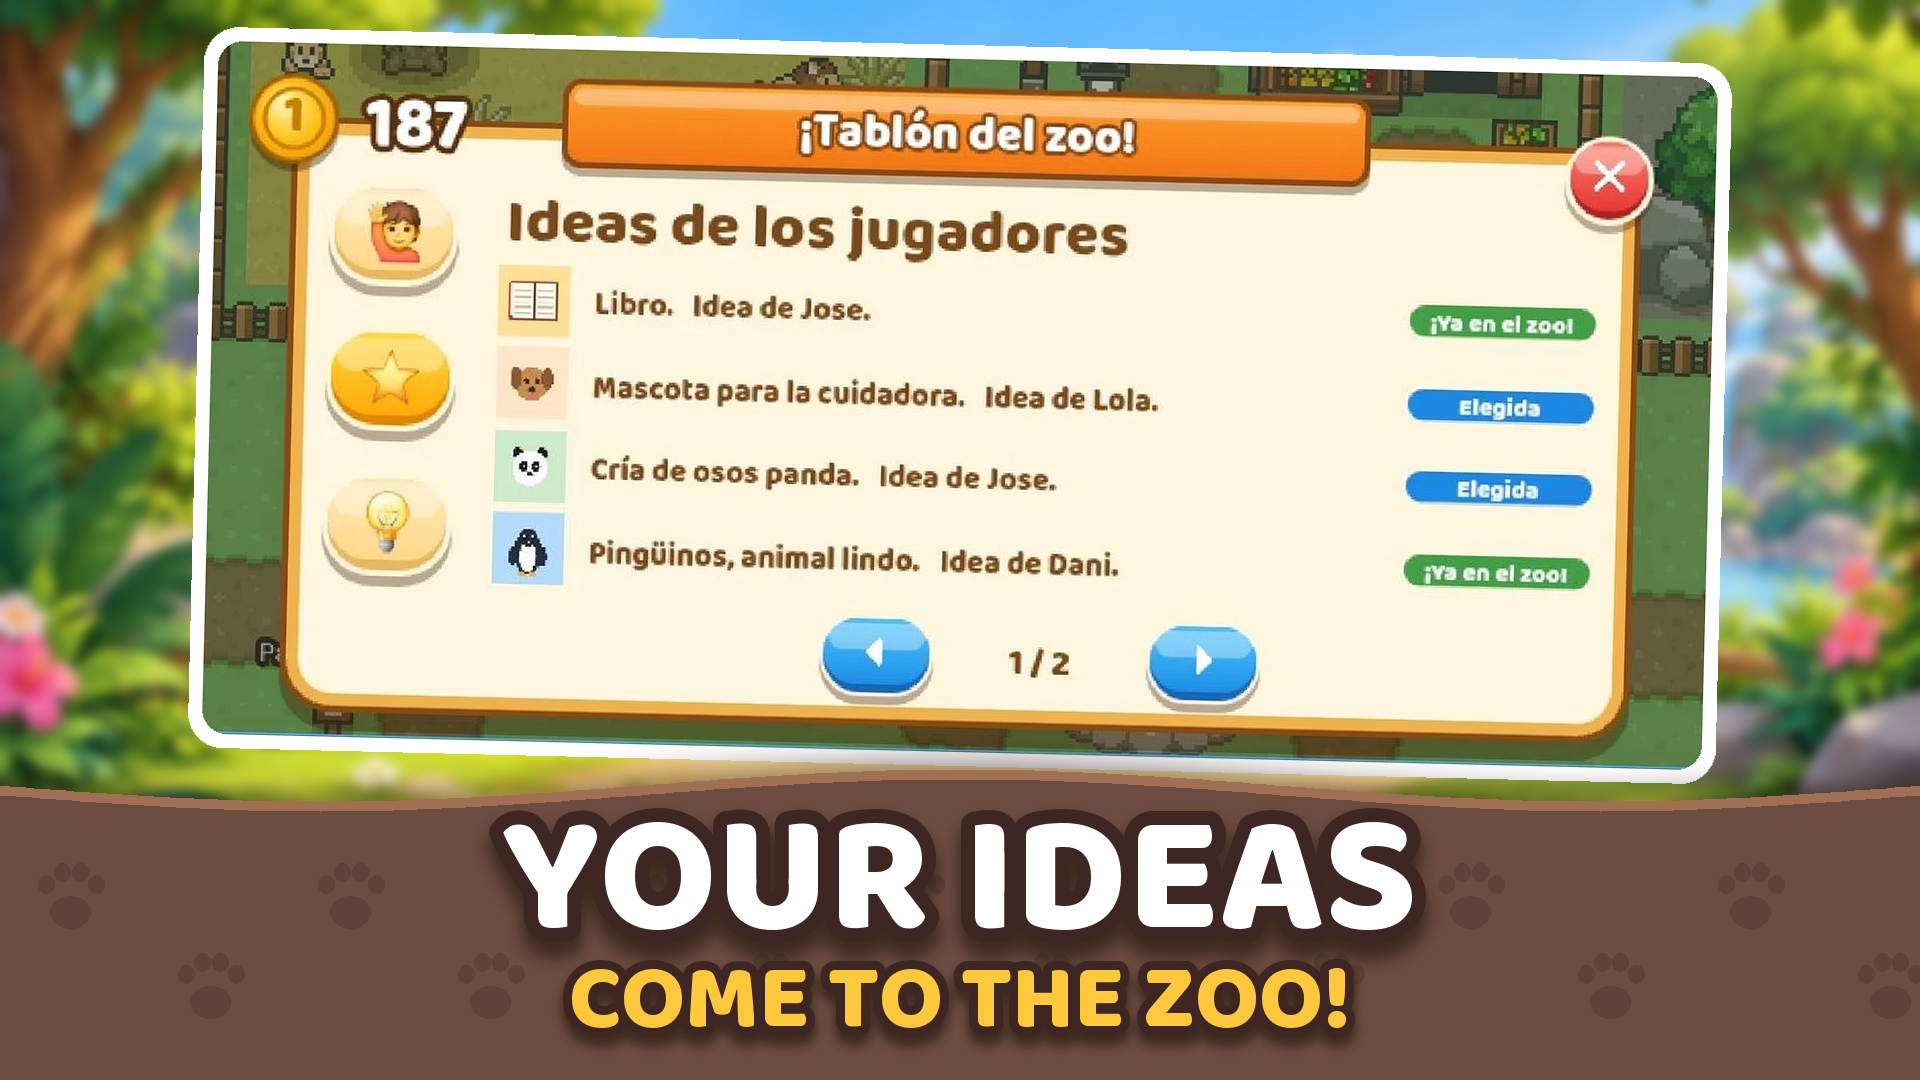
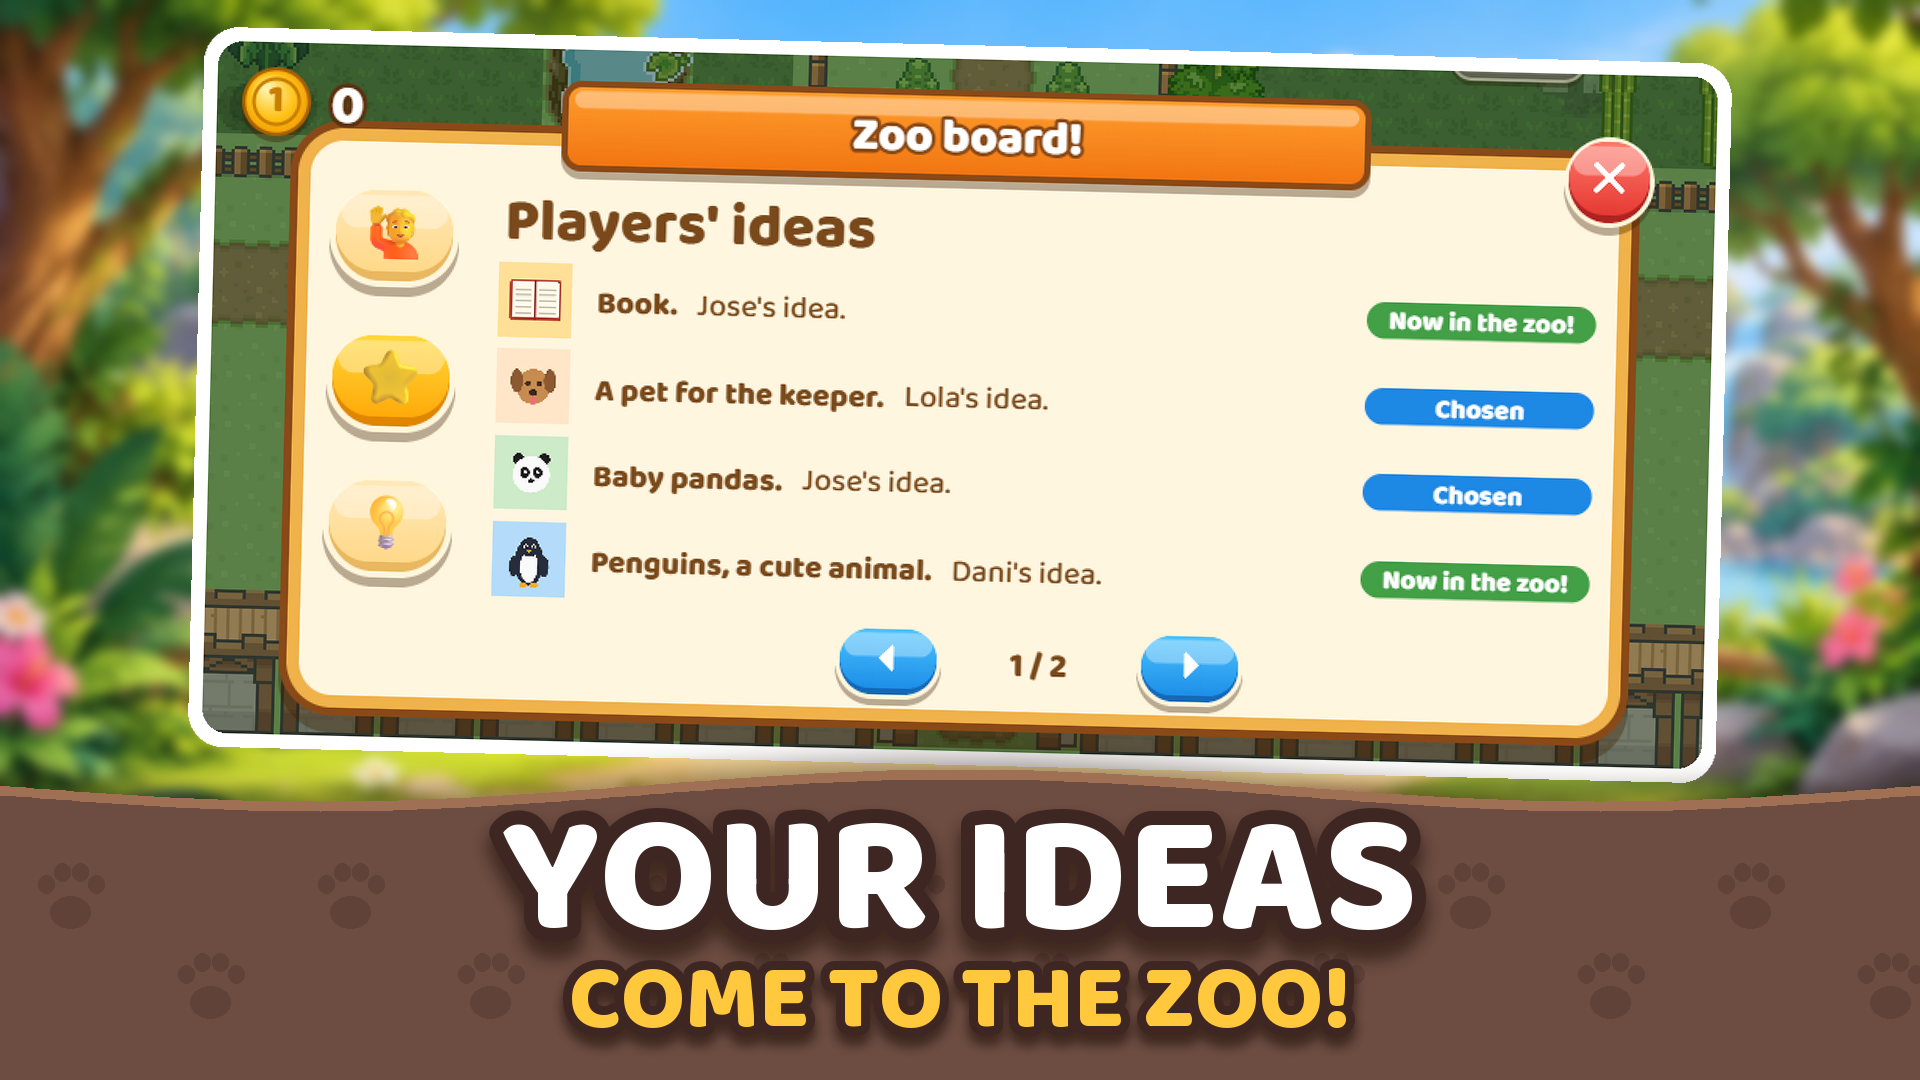
feat(ficha): captura del tablón sacada del juego en local, en español e inglés

Changed region(s): [[0.0938, 0.0306, 0.9062, 0.7333], [0.25, 0.3361, 0.625, 0.3972], [0.1562, 0.4583, 0.2188, 0.55]]

diff --git a/game/store/titulares.py b/game/store/titulares.py
@@ -142,6 +142,7 @@ if __name__ == '__main__':
         carpeta = f'play/titulares/{idioma}'
         os.makedirs(carpeta, exist_ok=True)
         for base, grande, pequeno in lista:
-            captura_con_titular(f'play/{base}.png', grande, pequeno).save(f'{carpeta}/{base}.png')
+            propia = f'play/{base}-{idioma}.png'  # captura con el juego en ese idioma, si la hay
+            captura_con_titular(propia if os.path.exists(propia) else f'play/{base}.png', grande, pequeno).save(f'{carpeta}/{base}.png')
         grafico(idioma).save(f'{carpeta}/grafico-funciones-1024x500.png')
         print(idioma, sorted(os.listdir(carpeta)))

diff --git a/README.md b/README.md
@@ -105,7 +105,7 @@ Google Play: la 2.3.0 (versionCode 5) está en la prueba cerrada; a 2026-10-06 v
 
 ✅ **2.6.0** (2026-10-12, en `main`, etiqueta `v2.6.0`, subida a la prueba cerrada de Play con versionCode 7; sin publicar en la web): publicidad con premio en Android. Un panel con monedas, un botón verde y una X ofrece ver un anuncio al entrar en la tienda (a partir de 5 minutos de juego) y, una vez por partida, al volver al mapa (a partir de 15 minutos, con cuenta atrás). Como mucho un panel cada 15 minutos de juego y 4 anuncios al día; el premio crece con el zoo. David la probó en el móvil con anuncios de prueba el 2026-10-12 (panel, premio y anuncio a pantalla completa). En Play Console quedó declarado: anuncios sí, seguridad de los datos rehecha (ubicación aproximada, interacciones, diagnóstico, registros de fallos e identificadores del dispositivo), público de hasta 12 años dentro de «Diseñado para Familias» e identificador de publicidad en «No». La página pública de privacidad de davidpladel.com dice lo mismo que la del juego. Google la revisó y la publicó en la prueba cerrada sin rechazos ni avisos (dicho por David el 2026-10-12). También están hechos en AdMob la clasificación máxima «G» y `app-ads.txt` en davidpladel.com.
 
-Ficha de Play al día (2026-10-08): David subió las capturas nuevas de `game/store/play/` (`captura-1` a `captura-6`, 1920×1080: leones, dar de comer a la pantera, cabras, tienda, libro y panteras) y el gráfico de funciones rehecho (portada pintada, letra Baloo 2, león del icono y lema). Añadida el 2026-10-17 la `captura-7-tablon` (el Tablón del zoo, con titular «TUS IDEAS / ¡LLEGAN AL ZOO!» y «YOUR IDEAS / COME TO THE ZOO!» en `play/titulares/{es,en}/`), para destacar que las ideas de los jugadores se añaden al juego.
+Ficha de Play al día (2026-10-08): David subió las capturas nuevas de `game/store/play/` (`captura-1` a `captura-6`, 1920×1080: leones, dar de comer a la pantera, cabras, tienda, libro y panteras) y el gráfico de funciones rehecho (portada pintada, letra Baloo 2, león del icono y lema). Añadida el 2026-10-17 la `captura-7-tablon` (el muro del Tablón del zoo con las ideas reales del servidor, sacada con `node store/shots-tablon.mjs` en proporción de móvil y en cada idioma; con titular «TUS IDEAS / ¡LLEGAN AL ZOO!» y «YOUR IDEAS / COME TO THE ZOO!» en `play/titulares/{es,en}/`), para destacar que las ideas de los jugadores se añaden al juego.
 
 Pendiente, por orden: cuando haya datos de la 2.6.0, mirar `anuncio-vacio` y `anuncio-segundos` en Matomo; al pasar a producción, enlazar la app en AdMob con su ficha de Play; publicar la 2.5.1 en la web; completar los 14 días con 12 testers y pedir el acceso a producción (6b). Opcional en Matomo: conservación corta de los registros en bruto. Cabo suelto de la 2.6.0: la prueba `zoo-grande.spec.ts:46` («se compra el estanque…») falló una vez en la tanda completa del 2026-10-12 (el maíz no llegó al pato, con el equipo lento) y pasó tres veces seguidas lanzada sola. Cabos sueltos de la 2.4.0: la prueba `zoo-grande.spec.ts:104` («sin comprar las ovejas, ningún visitante entra en su recinto») falló una vez en una tanda completa y pasó las demás, sin que se llegara a ver el error; y cambiar de idioma con la ventana de comer abierta, o con el libro sobre la tienda, no tiene prueba de juego propia. Ideas para después, cada una con su spec: bañar y limpiar, día y noche, clínica veterinaria y acuario con delfines.
 

diff --git a/game/README.md b/game/README.md
@@ -19,7 +19,7 @@ npx cap sync android # copia la build al proyecto Android
 npx cap open android # abre Android Studio (▶ Run para probar en el móvil)
 ```
 
-Icono y ficha de Play (desde `game/store/`, Python + Pillow + numpy): `python make_icon.py` dibuja el león y genera el icono 512, los iconos de Android y los splash; con el juego en marcha (`npm run dev`), `node store/shots.mjs` saca las capturas a `store/out/` (varias tomas de cada recinto, para elegir); después `python make.py` compone el gráfico de funciones 1024×500 y copia las capturas a `play/`. El splash usa la letra `store/fonts/Baloo2.ttf` sobre el azul cielo `#58B0F0`.
+Icono y ficha de Play (desde `game/store/`, Python + Pillow + numpy): `python make_icon.py` dibuja el león y genera el icono 512, los iconos de Android y los splash; con el juego en marcha (`npm run dev`), `node store/shots.mjs` saca las capturas a `store/out/` (varias tomas de cada recinto, para elegir); `node store/shots-tablon.mjs` saca el muro del tablón con las ideas reales, en español e inglés; después `python make.py` compone el gráfico de funciones 1024×500 y copia las capturas a `play/`. El splash usa la letra `store/fonts/Baloo2.ttf` sobre el azul cielo `#58B0F0`.
 
 ## Arte
 
